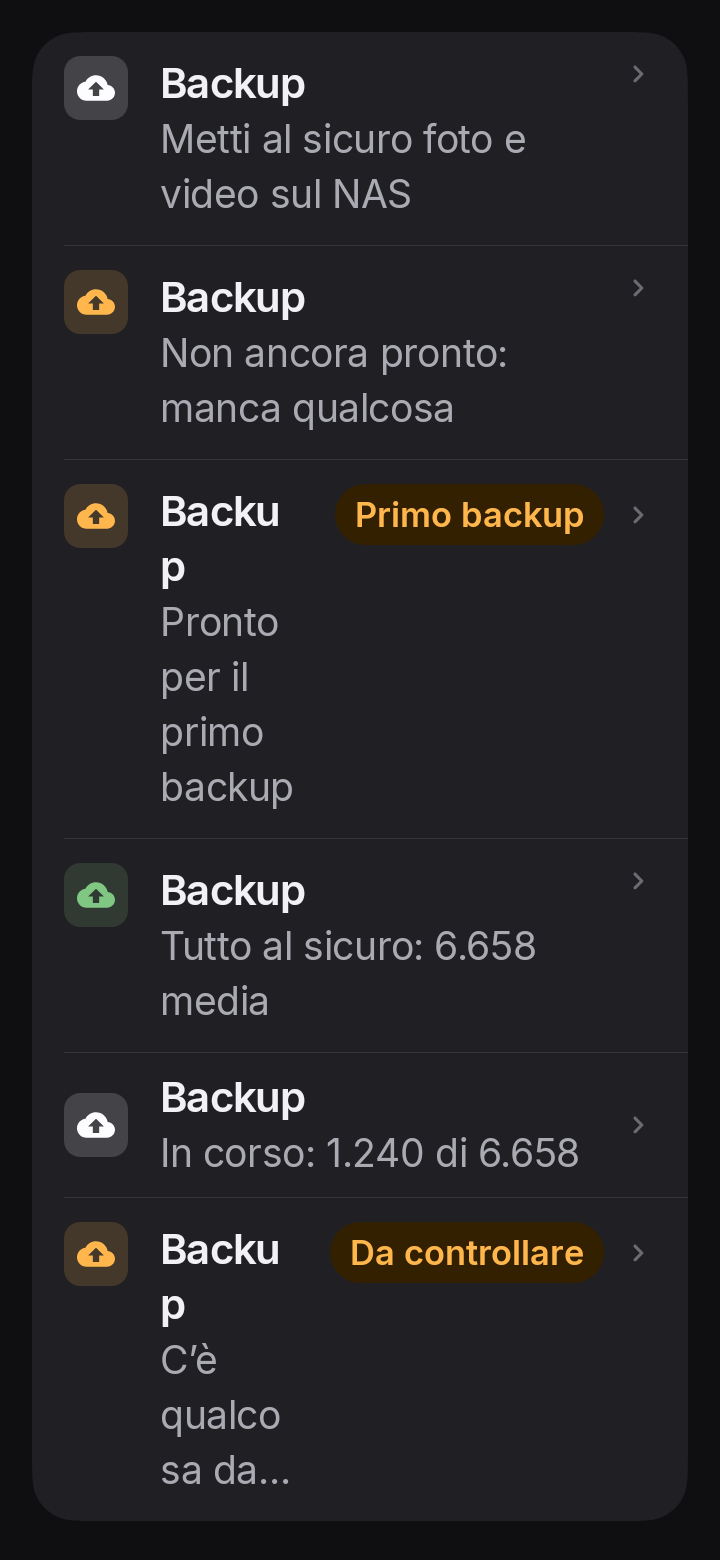
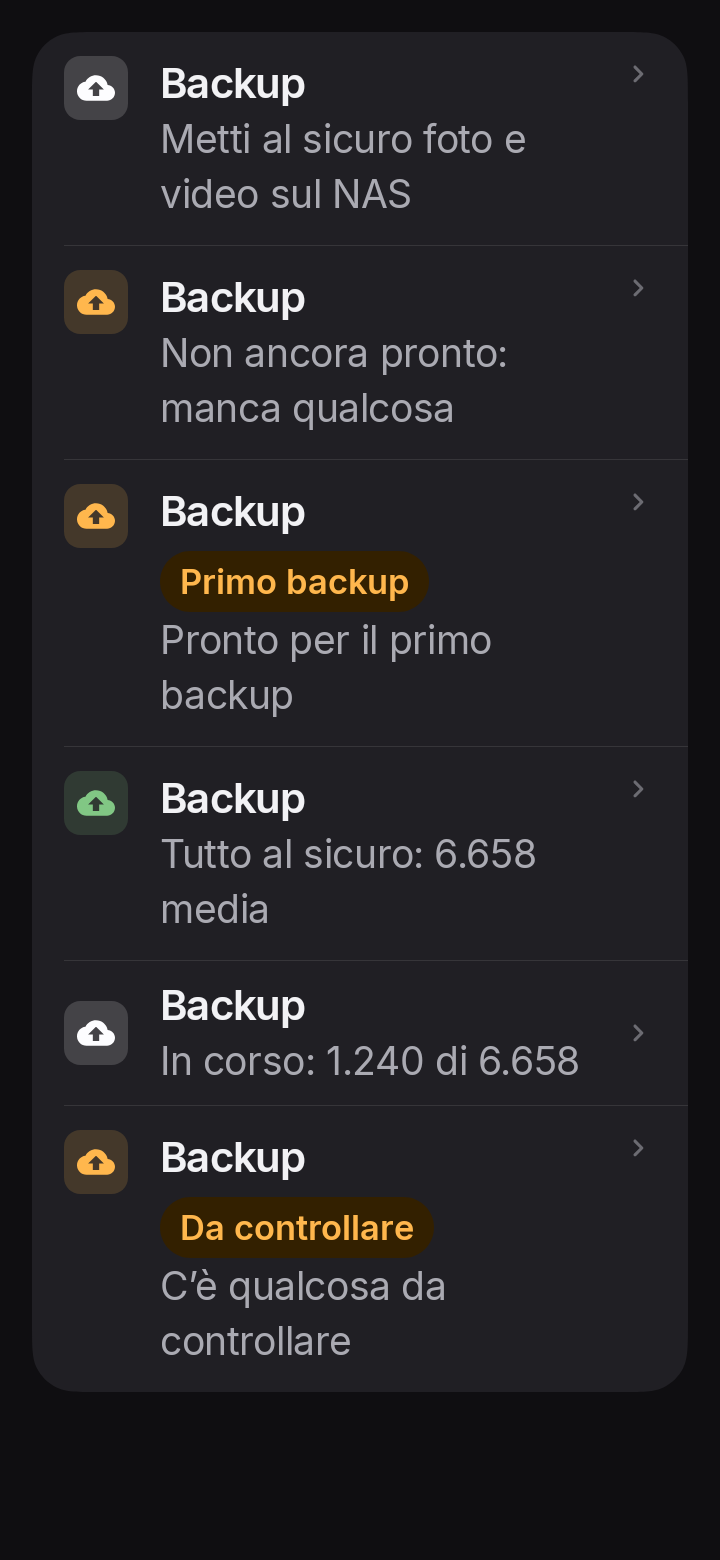
K4: prova a 360 dp della voce Backup con la pillola (testo normale e grande), screenshot 5-P5 riregistrati

diff --git a/feature-settings/src/test/kotlin/dev/pampa/mycloudgallery/feature/settings/backup/BackupEntryFitTest.kt b/feature-settings/src/test/kotlin/dev/pampa/mycloudgallery/feature/settings/backup/BackupEntryFitTest.kt
@@ -1,0 +1,85 @@
+package dev.pampa.mycloudgallery.feature.settings.backup
+
+import androidx.activity.ComponentActivity
+import androidx.compose.foundation.layout.Box
+import androidx.compose.foundation.layout.fillMaxSize
+import androidx.compose.foundation.layout.padding
+import androidx.compose.runtime.CompositionLocalProvider
+import androidx.compose.ui.Modifier
+import androidx.compose.ui.platform.LocalDensity
+import androidx.compose.ui.semantics.SemanticsActions
+import androidx.compose.ui.semantics.getOrNull
+import androidx.compose.ui.test.junit4.createAndroidComposeRule
+import androidx.compose.ui.test.onAllNodesWithText
+import androidx.compose.ui.text.TextLayoutResult
+import androidx.compose.ui.unit.Density
+import androidx.compose.ui.unit.dp
+import androidx.test.ext.junit.runners.AndroidJUnit4
+import com.google.common.truth.Truth.assertWithMessage
+import dev.antigravity.fluidengine.foundation.EngineSettings
+import dev.antigravity.fluidengine.foundation.ThemeMode
+import dev.antigravity.fluidengine.ui.theme.FluidListGroup
+import dev.pampa.mycloudgallery.core.backup.contract.BackupProblemCode
+import dev.pampa.mycloudgallery.core.backup.contract.BackupStatus
+import dev.pampa.mycloudgallery.core.designsystem.theme.MyCloudGalleryTheme
+import org.junit.Rule
+import org.junit.Test
+import org.junit.runner.RunWith
+import org.robolectric.annotation.Config
+import org.robolectric.annotation.GraphicsMode
+
+/**
+ * K4: la voce "Backup" con la pillola "Da controllare" sul telefono dell'utente (360 dp) e con il testo grande (1,3x). La pillola era nel `badge`
+ * della riga, che prende la larghezza per primo, e il titolo restava in una colonna di sillabe ("Backu/p"). Adesso la pillola sta in `labels`: se
+ * non c'e' posto accanto al titolo va sotto, e il titolo sta su una riga sola, intero.
+ */
+@RunWith(AndroidJUnit4::class)
+@GraphicsMode(GraphicsMode.Mode.NATIVE)
+@Config(qualifiers = "it-w360dp-h780dp-xhdpi")
+class BackupEntryFitTest {
+
+  @get:Rule
+  val rule = createAndroidComposeRule<ComponentActivity>()
+
+  private fun show(status: BackupStatus?, fontScale: Float) {
+    rule.setContent {
+      MyCloudGalleryTheme(settings = EngineSettings(themeMode = ThemeMode.LIGHT)) {
+        val density = LocalDensity.current
+        CompositionLocalProvider(LocalDensity provides Density(density.density, fontScale)) {
+          Box(Modifier.fillMaxSize().padding(16.dp)) {
+            FluidListGroup { BackupEntryRow(status = status, onClick = {}) }
+          }
+        }
+      }
+    }
+    rule.waitForIdle()
+  }
+
+  /** Quante righe scrive il testo esattamente "[text]" (nell'albero non unito: il nodo del solo testo). */
+  private fun lineCounts(text: String): List<Int> =
+    rule.onAllNodesWithText(text, useUnmergedTree = true).fetchSemanticsNodes().map { node ->
+      val results = ArrayList<TextLayoutResult>()
+      node.config.getOrNull(SemanticsActions.GetTextLayoutResult)?.action?.invoke(results)
+      results.single().lineCount
+    }
+
+  private fun assertWhole(text: String, scale: Float) {
+    val counts = lineCounts(text)
+    assertWithMessage("\"$text\" non e' sullo schermo (testo $scale)").that(counts).hasSize(1)
+    assertWithMessage("\"$text\" a 360 dp, testo $scale, va a capo: $counts").that(counts.single()).isEqualTo(1)
+  }
+
+  @Test
+  fun iTitoloNonSiSpezzaConLaPillolaATestoNormale() {
+    show(BackupStatus.Problem(BackupProblemCode.QUOTA, 0), fontScale = 1f)
+    assertWhole("Backup", 1f)
+    assertWhole("Da controllare", 1f)
+  }
+
+  @Test
+  fun iTitoloNonSiSpezzaConLaPillolaATestoGrande() {
+    show(BackupStatus.Problem(BackupProblemCode.QUOTA, 0), fontScale = 1.3f)
+    assertWhole("Backup", 1.3f)
+    assertWhole("Da controllare", 1.3f)
+  }
+}
